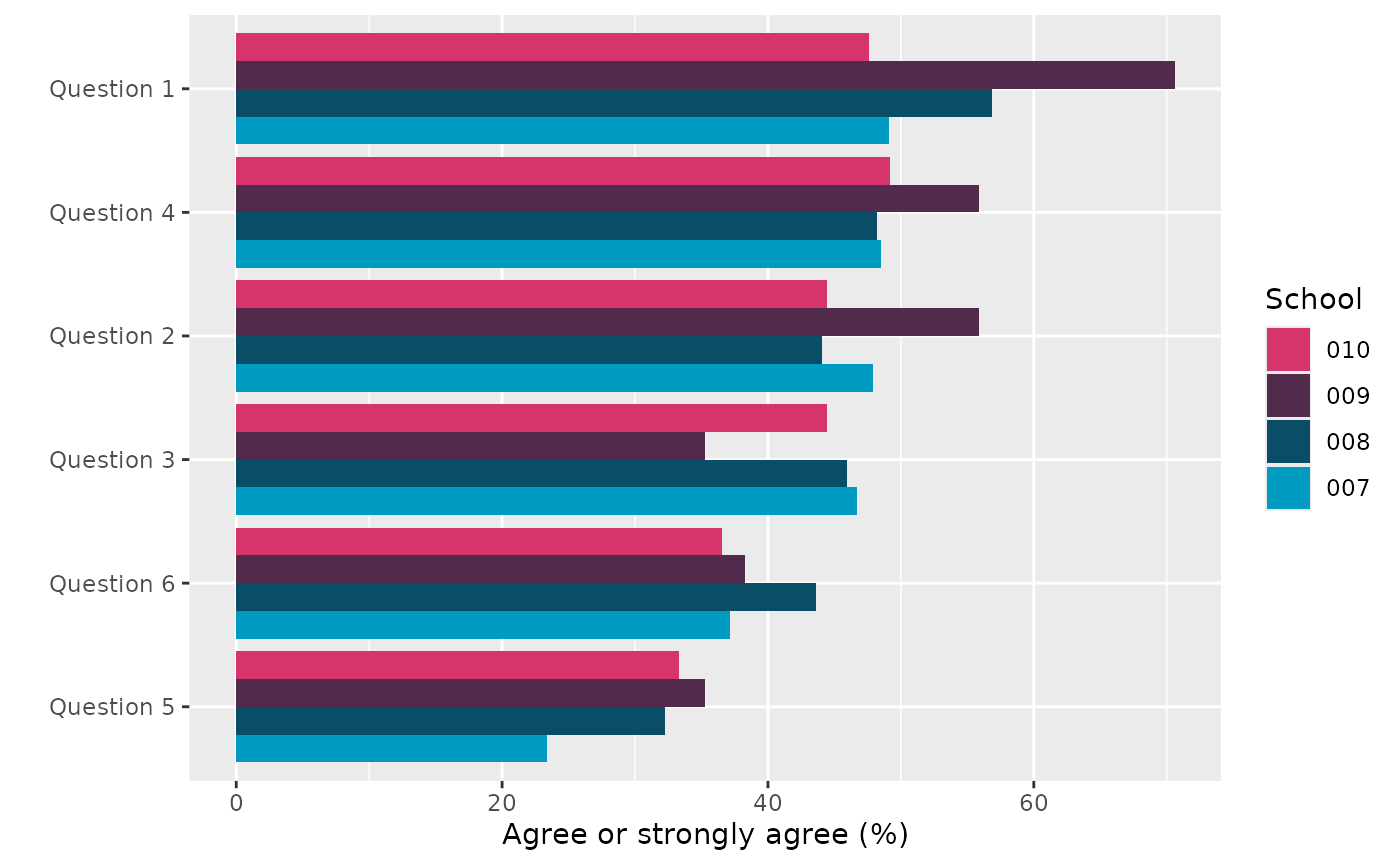
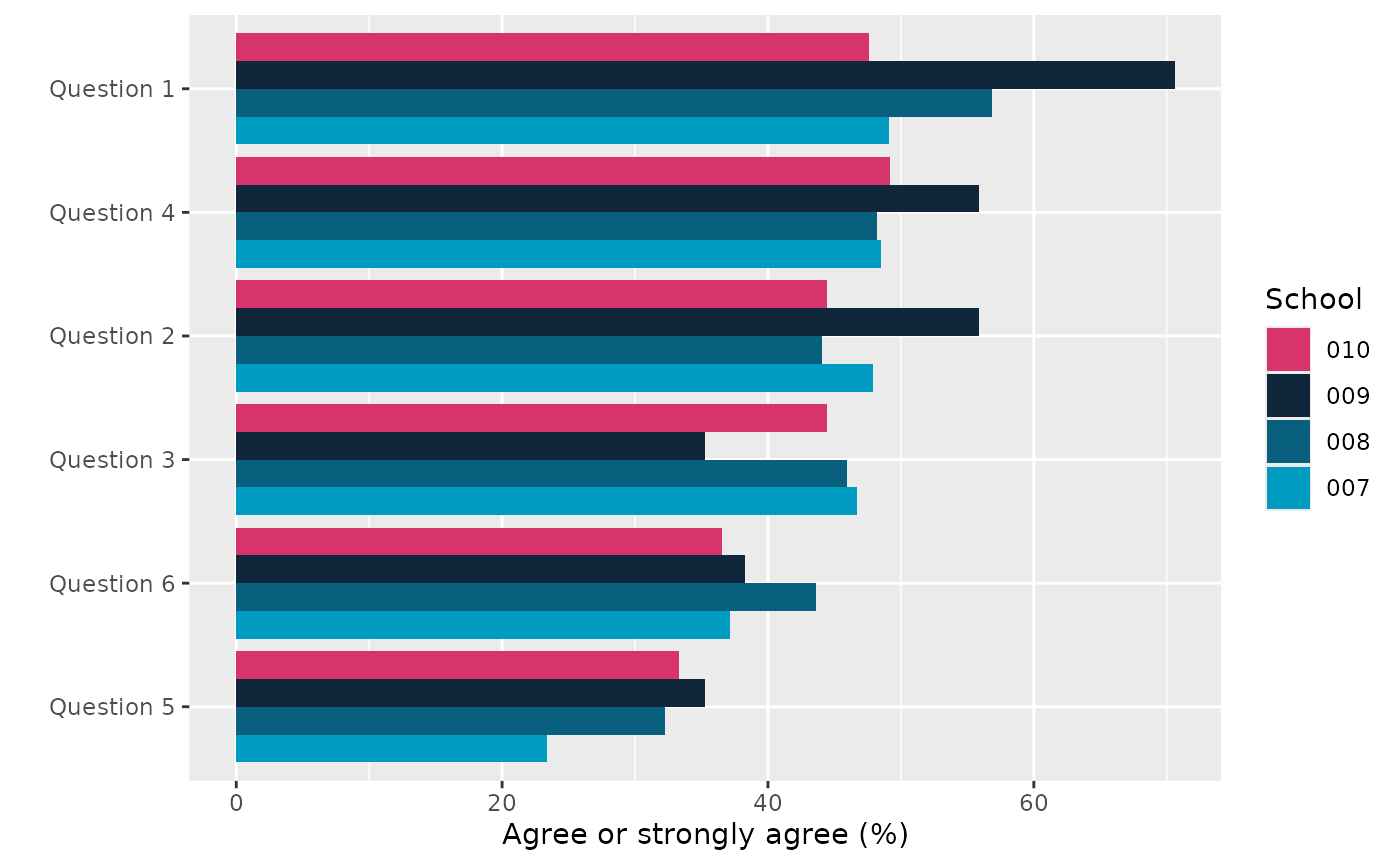
Deploying to gh-pages from @ Jake-Powell/OMESurvey@57211232e80354e47254bc21770a3bd3f6341dea 🚀

diff --git a/articles/Create-survey-figures.html b/articles/Create-survey-figures.html
@@ -111,7 +111,7 @@ ggplot, a plotly figure or a formatted data frame.</p>
 <div class="sourceCode" id="cb4"><pre class="downlit sourceCode r">
 <code class="sourceCode R"><span><span class="fu">OMESurvey</span><span class="fu">::</span><span class="fu"><a href="../reference/plot_theme.html">plot_theme</a></span><span class="op">(</span><span class="va">data</span>, theme <span class="op">=</span> <span class="st">'Theme_1'</span>, kind <span class="op">=</span> <span class="st">'plotly'</span><span class="op">)</span></span></code></pre></div>
 <div class="plotly html-widget html-fill-item" id="htmlwidget-ac96cb3ee4656e2e9ec3" style="width:700px;height:432.632880098888px;"></div>
-<script type="application/json" data-for="htmlwidget-ac96cb3ee4656e2e9ec3">{"x":{"visdat":{"1d1e4d696225":["function () ","plotlyVisDat"]},"cur_data":"1d1e4d696225","attrs":{"1d1e4d696225":{"y":{},"x":{},"orientation":"h","hovertext":{},"hoverinfo":"text","color":{},"colors":["#009BC1","#08607E","#10263B","#732C53","#D7336C"],"alpha_stroke":1,"sizes":[10,100],"spans":[1,20],"type":"bar"}},"layout":{"margin":{"b":40,"l":60,"t":25,"r":10},"xaxis":{"domain":[0,1],"automargin":true,"title":"Number of responses"},"yaxis":{"domain":[0,1],"automargin":true,"title":"","type":"category","categoryorder":"array","categoryarray":["Question 1","Question 2","Question 3","Question 4","Question 5","Question 6"]},"barmode":"stack","hovermode":"closest","showlegend":true},"source":"A","config":{"modeBarButtonsToAdd":["hoverclosest","hovercompare"],"showSendToCloud":false},"data":[{"y":["Question 1","Question 2","Question 3","Question 4","Question 5","Question 6"],"x":[122,49,84,134,85,90],"orientation":"h","hovertext":["Agree a lot<br>122 Responses<br>34.9%","Agree a lot<br>49 Responses<br>14.4%","Agree a lot<br>84 Responses<br>23.9%","Agree a lot<br>134 Responses<br>38.1%","Agree a lot<br>85 Responses<br>23.5%","Agree a lot<br>90 Responses<br>25.9%"],"hoverinfo":["text","text","text","text","text","text"],"type":"bar","name":"Agree a lot","marker":{"color":"rgba(0,155,193,1)","line":{"color":"rgba(0,155,193,1)"}},"textfont":{"color":"rgba(0,155,193,1)"},"error_y":{"color":"rgba(0,155,193,1)"},"error_x":{"color":"rgba(0,155,193,1)"},"xaxis":"x","yaxis":"y","frame":null},{"y":["Question 1","Question 2","Question 3","Question 4","Question 5","Question 6"],"x":[139,175,135,103,58,104],"orientation":"h","hovertext":["Agree a little<br>139 Responses<br>39.7%","Agree a little<br>175 Responses<br>51.5%","Agree a little<br>135 Responses<br>38.4%","Agree a little<br>103 Responses<br>29.3%","Agree a little<br>58 Responses<br>16.1%","Agree a little<br>104 Responses<br>30%"],"hoverinfo":["text","text","text","text","text","text"],"type":"bar","name":"Agree a little","marker":{"color":"rgba(8,96,126,1)","line":{"color":"rgba(8,96,126,1)"}},"textfont":{"color":"rgba(8,96,126,1)"},"error_y":{"color":"rgba(8,96,126,1)"},"error_x":{"color":"rgba(8,96,126,1)"},"xaxis":"x","yaxis":"y","frame":null},{"y":["Question 1","Question 2","Question 3","Question 4","Question 5","Question 6"],"x":[45,54,65,52,70,76],"orientation":"h","hovertext":["Neither<br>45 Responses<br>12.9%","Neither<br>54 Responses<br>15.9%","Neither<br>65 Responses<br>18.5%","Neither<br>52 Responses<br>14.8%","Neither<br>70 Responses<br>19.4%","Neither<br>76 Responses<br>21.9%"],"hoverinfo":["text","text","text","text","text","text"],"type":"bar","name":"Neither","marker":{"color":"rgba(16,38,59,1)","line":{"color":"rgba(16,38,59,1)"}},"textfont":{"color":"rgba(16,38,59,1)"},"error_y":{"color":"rgba(16,38,59,1)"},"error_x":{"color":"rgba(16,38,59,1)"},"xaxis":"x","yaxis":"y","frame":null},{"y":["Question 1","Question 2","Question 3","Question 4","Question 5","Question 6"],"x":[28,44,47,33,61,32],"orientation":"h","hovertext":["Disagree a little<br>28 Responses<br>8%","Disagree a little<br>44 Responses<br>12.9%","Disagree a little<br>47 Responses<br>13.4%","Disagree a little<br>33 Responses<br>9.4%","Disagree a little<br>61 Responses<br>16.9%","Disagree a little<br>32 Responses<br>9.2%"],"hoverinfo":["text","text","text","text","text","text"],"type":"bar","name":"Disagree a little","marker":{"color":"rgba(115,44,83,1)","line":{"color":"rgba(115,44,83,1)"}},"textfont":{"color":"rgba(115,44,83,1)"},"error_y":{"color":"rgba(115,44,83,1)"},"error_x":{"color":"rgba(115,44,83,1)"},"xaxis":"x","yaxis":"y","frame":null},{"y":["Question 1","Question 2","Question 3","Question 4","Question 5","Question 6"],"x":[16,18,21,30,87,45],"orientation":"h","hovertext":["Disagree a lot<br>16 Responses<br>4.6%","Disagree a lot<br>18 Responses<br>5.3%","Disagree a lot<br>21 Responses<br>6%","Disagree a lot<br>30 Responses<br>8.5%","Disagree a lot<br>87 Responses<br>24.1%","Disagree a lot<br>45 Responses<br>13%"],"hoverinfo":["text","text","text","text","text","text"],"type":"bar","name":"Disagree a lot","marker":{"color":"rgba(215,51,108,1)","line":{"color":"rgba(215,51,108,1)"}},"textfont":{"color":"rgba(215,51,108,1)"},"error_y":{"color":"rgba(215,51,108,1)"},"error_x":{"color":"rgba(215,51,108,1)"},"xaxis":"x","yaxis":"y","frame":null}],"highlight":{"on":"plotly_click","persistent":false,"dynamic":false,"selectize":false,"opacityDim":0.20000000000000001,"selected":{"opacity":1},"debounce":0},"shinyEvents":["plotly_hover","plotly_click","plotly_selected","plotly_relayout","plotly_brushed","plotly_brushing","plotly_clickannotation","plotly_doubleclick","plotly_deselect","plotly_afterplot","plotly_sunburstclick"],"base_url":"https://plot.ly"},"evals":[],"jsHooks":[]}</script>
+<script type="application/json" data-for="htmlwidget-ac96cb3ee4656e2e9ec3">{"x":{"visdat":{"1e3f2b8c265e":["function () ","plotlyVisDat"]},"cur_data":"1e3f2b8c265e","attrs":{"1e3f2b8c265e":{"y":{},"x":{},"orientation":"h","hovertext":{},"hoverinfo":"text","color":{},"colors":["#009BC1","#08607E","#10263B","#732C53","#D7336C"],"alpha_stroke":1,"sizes":[10,100],"spans":[1,20],"type":"bar"}},"layout":{"margin":{"b":40,"l":60,"t":25,"r":10},"xaxis":{"domain":[0,1],"automargin":true,"title":"Number of responses"},"yaxis":{"domain":[0,1],"automargin":true,"title":"","type":"category","categoryorder":"array","categoryarray":["Question 1","Question 2","Question 3","Question 4","Question 5","Question 6"]},"barmode":"stack","hovermode":"closest","showlegend":true},"source":"A","config":{"modeBarButtonsToAdd":["hoverclosest","hovercompare"],"showSendToCloud":false},"data":[{"y":["Question 1","Question 2","Question 3","Question 4","Question 5","Question 6"],"x":[122,49,84,134,85,90],"orientation":"h","hovertext":["Agree a lot<br>122 Responses<br>34.9%","Agree a lot<br>49 Responses<br>14.4%","Agree a lot<br>84 Responses<br>23.9%","Agree a lot<br>134 Responses<br>38.1%","Agree a lot<br>85 Responses<br>23.5%","Agree a lot<br>90 Responses<br>25.9%"],"hoverinfo":["text","text","text","text","text","text"],"type":"bar","name":"Agree a lot","marker":{"color":"rgba(0,155,193,1)","line":{"color":"rgba(0,155,193,1)"}},"textfont":{"color":"rgba(0,155,193,1)"},"error_y":{"color":"rgba(0,155,193,1)"},"error_x":{"color":"rgba(0,155,193,1)"},"xaxis":"x","yaxis":"y","frame":null},{"y":["Question 1","Question 2","Question 3","Question 4","Question 5","Question 6"],"x":[139,175,135,103,58,104],"orientation":"h","hovertext":["Agree a little<br>139 Responses<br>39.7%","Agree a little<br>175 Responses<br>51.5%","Agree a little<br>135 Responses<br>38.4%","Agree a little<br>103 Responses<br>29.3%","Agree a little<br>58 Responses<br>16.1%","Agree a little<br>104 Responses<br>30%"],"hoverinfo":["text","text","text","text","text","text"],"type":"bar","name":"Agree a little","marker":{"color":"rgba(8,96,126,1)","line":{"color":"rgba(8,96,126,1)"}},"textfont":{"color":"rgba(8,96,126,1)"},"error_y":{"color":"rgba(8,96,126,1)"},"error_x":{"color":"rgba(8,96,126,1)"},"xaxis":"x","yaxis":"y","frame":null},{"y":["Question 1","Question 2","Question 3","Question 4","Question 5","Question 6"],"x":[45,54,65,52,70,76],"orientation":"h","hovertext":["Neither<br>45 Responses<br>12.9%","Neither<br>54 Responses<br>15.9%","Neither<br>65 Responses<br>18.5%","Neither<br>52 Responses<br>14.8%","Neither<br>70 Responses<br>19.4%","Neither<br>76 Responses<br>21.9%"],"hoverinfo":["text","text","text","text","text","text"],"type":"bar","name":"Neither","marker":{"color":"rgba(16,38,59,1)","line":{"color":"rgba(16,38,59,1)"}},"textfont":{"color":"rgba(16,38,59,1)"},"error_y":{"color":"rgba(16,38,59,1)"},"error_x":{"color":"rgba(16,38,59,1)"},"xaxis":"x","yaxis":"y","frame":null},{"y":["Question 1","Question 2","Question 3","Question 4","Question 5","Question 6"],"x":[28,44,47,33,61,32],"orientation":"h","hovertext":["Disagree a little<br>28 Responses<br>8%","Disagree a little<br>44 Responses<br>12.9%","Disagree a little<br>47 Responses<br>13.4%","Disagree a little<br>33 Responses<br>9.4%","Disagree a little<br>61 Responses<br>16.9%","Disagree a little<br>32 Responses<br>9.2%"],"hoverinfo":["text","text","text","text","text","text"],"type":"bar","name":"Disagree a little","marker":{"color":"rgba(115,44,83,1)","line":{"color":"rgba(115,44,83,1)"}},"textfont":{"color":"rgba(115,44,83,1)"},"error_y":{"color":"rgba(115,44,83,1)"},"error_x":{"color":"rgba(115,44,83,1)"},"xaxis":"x","yaxis":"y","frame":null},{"y":["Question 1","Question 2","Question 3","Question 4","Question 5","Question 6"],"x":[16,18,21,30,87,45],"orientation":"h","hovertext":["Disagree a lot<br>16 Responses<br>4.6%","Disagree a lot<br>18 Responses<br>5.3%","Disagree a lot<br>21 Responses<br>6%","Disagree a lot<br>30 Responses<br>8.5%","Disagree a lot<br>87 Responses<br>24.1%","Disagree a lot<br>45 Responses<br>13%"],"hoverinfo":["text","text","text","text","text","text"],"type":"bar","name":"Disagree a lot","marker":{"color":"rgba(215,51,108,1)","line":{"color":"rgba(215,51,108,1)"}},"textfont":{"color":"rgba(215,51,108,1)"},"error_y":{"color":"rgba(215,51,108,1)"},"error_x":{"color":"rgba(215,51,108,1)"},"xaxis":"x","yaxis":"y","frame":null}],"highlight":{"on":"plotly_click","persistent":false,"dynamic":false,"selectize":false,"opacityDim":0.20000000000000001,"selected":{"opacity":1},"debounce":0},"shinyEvents":["plotly_hover","plotly_click","plotly_selected","plotly_relayout","plotly_brushed","plotly_brushing","plotly_clickannotation","plotly_doubleclick","plotly_deselect","plotly_afterplot","plotly_sunburstclick"],"base_url":"https://plot.ly"},"evals":[],"jsHooks":[]}</script>
 </div>
 <div class="tab-pane" id="data-frame" role="tabpanel" aria-labelledby="data-frame-tab">
 
@@ -203,7 +203,7 @@ code.</p>
 <div class="sourceCode" id="cb10"><pre class="downlit sourceCode r">
 <code class="sourceCode R"><span><span class="fu">OMESurvey</span><span class="fu">::</span><span class="fu"><a href="../reference/plot_theme_by_demographic.html">plot_theme_by_demographic</a></span><span class="op">(</span><span class="va">data</span>, theme <span class="op">=</span> <span class="st">'Theme_1'</span>, demographic_column <span class="op">=</span> <span class="va">school_column</span>,  kind <span class="op">=</span> <span class="st">'plotly'</span><span class="op">)</span></span></code></pre></div>
 <div class="plotly html-widget html-fill-item" id="htmlwidget-36aa3d2a04d42bbc2145" style="width:700px;height:432.632880098888px;"></div>
-<script type="application/json" data-for="htmlwidget-36aa3d2a04d42bbc2145">{"x":{"visdat":{"1d1e689d242c":["function () ","plotlyVisDat"]},"cur_data":"1d1e689d242c","attrs":{"1d1e689d242c":{"y":{},"x":{},"orientation":"h","hovertext":{},"hoverinfo":"text","color":{},"colors":["#009BC1","#0A4D67","#522A4B","#D7336C"],"alpha_stroke":1,"sizes":[10,100],"spans":[1,20],"type":"bar"}},"layout":{"margin":{"b":40,"l":60,"t":25,"r":10},"xaxis":{"domain":[0,1],"automargin":true,"title":"Agree or strongly agree (%)"},"yaxis":{"domain":[0,1],"automargin":true,"title":"","type":"category","categoryorder":"array","categoryarray":["Question 1","Question 2","Question 3","Question 4","Question 5","Question 6"]},"hovermode":"closest","showlegend":true},"source":"A","config":{"modeBarButtonsToAdd":["hoverclosest","hovercompare"],"showSendToCloud":false},"data":[{"y":["Question 1","Question 2","Question 3","Question 4","Question 5","Question 6"],"x":[49.101796407185603,47.904191616766497,46.706586826347298,48.502994011976,23.353293413173699,37.125748502994],"orientation":"h","hovertext":["Question 1<br>School: 007<br>49.1% of responses","Question 2<br>School: 007<br>47.9% of responses","Question 3<br>School: 007<br>46.7% of responses","Question 4<br>School: 007<br>48.5% of responses","Question 5<br>School: 007<br>23.4% of responses","Question 6<br>School: 007<br>37.1% of responses"],"hoverinfo":["text","text","text","text","text","text"],"type":"bar","name":"007","marker":{"color":"rgba(0,155,193,1)","line":{"color":"rgba(0,155,193,1)"}},"textfont":{"color":"rgba(0,155,193,1)"},"error_y":{"color":"rgba(0,155,193,1)"},"error_x":{"color":"rgba(0,155,193,1)"},"xaxis":"x","yaxis":"y","frame":null},{"y":["Question 1","Question 2","Question 3","Question 4","Question 5","Question 6"],"x":[56.818181818181799,44.090909090909101,45.909090909090899,48.181818181818201,32.272727272727302,43.636363636363598],"orientation":"h","hovertext":["Question 1<br>School: 008<br>56.8% of responses","Question 2<br>School: 008<br>44.1% of responses","Question 3<br>School: 008<br>45.9% of responses","Question 4<br>School: 008<br>48.2% of responses","Question 5<br>School: 008<br>32.3% of responses","Question 6<br>School: 008<br>43.6% of responses"],"hoverinfo":["text","text","text","text","text","text"],"type":"bar","name":"008","marker":{"color":"rgba(10,77,103,1)","line":{"color":"rgba(10,77,103,1)"}},"textfont":{"color":"rgba(10,77,103,1)"},"error_y":{"color":"rgba(10,77,103,1)"},"error_x":{"color":"rgba(10,77,103,1)"},"xaxis":"x","yaxis":"y","frame":null},{"y":["Question 1","Question 2","Question 3","Question 4","Question 5","Question 6"],"x":[70.588235294117695,55.882352941176499,35.294117647058798,55.882352941176499,35.294117647058798,38.235294117647101],"orientation":"h","hovertext":["Question 1<br>School: 009<br>70.6% of responses","Question 2<br>School: 009<br>55.9% of responses","Question 3<br>School: 009<br>35.3% of responses","Question 4<br>School: 009<br>55.9% of responses","Question 5<br>School: 009<br>35.3% of responses","Question 6<br>School: 009<br>38.2% of responses"],"hoverinfo":["text","text","text","text","text","text"],"type":"bar","name":"009","marker":{"color":"rgba(82,42,75,1)","line":{"color":"rgba(82,42,75,1)"}},"textfont":{"color":"rgba(82,42,75,1)"},"error_y":{"color":"rgba(82,42,75,1)"},"error_x":{"color":"rgba(82,42,75,1)"},"xaxis":"x","yaxis":"y","frame":null},{"y":["Question 1","Question 2","Question 3","Question 4","Question 5","Question 6"],"x":[47.619047619047599,44.4444444444444,44.4444444444444,49.206349206349202,33.3333333333333,36.507936507936499],"orientation":"h","hovertext":["Question 1<br>School: 010<br>47.6% of responses","Question 2<br>School: 010<br>44.4% of responses","Question 3<br>School: 010<br>44.4% of responses","Question 4<br>School: 010<br>49.2% of responses","Question 5<br>School: 010<br>33.3% of responses","Question 6<br>School: 010<br>36.5% of responses"],"hoverinfo":["text","text","text","text","text","text"],"type":"bar","name":"010","marker":{"color":"rgba(215,51,108,1)","line":{"color":"rgba(215,51,108,1)"}},"textfont":{"color":"rgba(215,51,108,1)"},"error_y":{"color":"rgba(215,51,108,1)"},"error_x":{"color":"rgba(215,51,108,1)"},"xaxis":"x","yaxis":"y","frame":null}],"highlight":{"on":"plotly_click","persistent":false,"dynamic":false,"selectize":false,"opacityDim":0.20000000000000001,"selected":{"opacity":1},"debounce":0},"shinyEvents":["plotly_hover","plotly_click","plotly_selected","plotly_relayout","plotly_brushed","plotly_brushing","plotly_clickannotation","plotly_doubleclick","plotly_deselect","plotly_afterplot","plotly_sunburstclick"],"base_url":"https://plot.ly"},"evals":[],"jsHooks":[]}</script>
+<script type="application/json" data-for="htmlwidget-36aa3d2a04d42bbc2145">{"x":{"visdat":{"1e3f4f6bcccb":["function () ","plotlyVisDat"]},"cur_data":"1e3f4f6bcccb","attrs":{"1e3f4f6bcccb":{"y":{},"x":{},"orientation":"h","hovertext":{},"hoverinfo":"text","color":{},"colors":["#009BC1","#08607E","#10263B","#D7336C"],"alpha_stroke":1,"sizes":[10,100],"spans":[1,20],"type":"bar"}},"layout":{"margin":{"b":40,"l":60,"t":25,"r":10},"xaxis":{"domain":[0,1],"automargin":true,"title":"Agree or strongly agree (%)"},"yaxis":{"domain":[0,1],"automargin":true,"title":"","type":"category","categoryorder":"array","categoryarray":["Question 1","Question 2","Question 3","Question 4","Question 5","Question 6"]},"hovermode":"closest","showlegend":true},"source":"A","config":{"modeBarButtonsToAdd":["hoverclosest","hovercompare"],"showSendToCloud":false},"data":[{"y":["Question 1","Question 2","Question 3","Question 4","Question 5","Question 6"],"x":[49.101796407185603,47.904191616766497,46.706586826347298,48.502994011976,23.353293413173699,37.125748502994],"orientation":"h","hovertext":["Question 1<br>School: 007<br>49.1% of responses","Question 2<br>School: 007<br>47.9% of responses","Question 3<br>School: 007<br>46.7% of responses","Question 4<br>School: 007<br>48.5% of responses","Question 5<br>School: 007<br>23.4% of responses","Question 6<br>School: 007<br>37.1% of responses"],"hoverinfo":["text","text","text","text","text","text"],"type":"bar","name":"007","marker":{"color":"rgba(0,155,193,1)","line":{"color":"rgba(0,155,193,1)"}},"textfont":{"color":"rgba(0,155,193,1)"},"error_y":{"color":"rgba(0,155,193,1)"},"error_x":{"color":"rgba(0,155,193,1)"},"xaxis":"x","yaxis":"y","frame":null},{"y":["Question 1","Question 2","Question 3","Question 4","Question 5","Question 6"],"x":[56.818181818181799,44.090909090909101,45.909090909090899,48.181818181818201,32.272727272727302,43.636363636363598],"orientation":"h","hovertext":["Question 1<br>School: 008<br>56.8% of responses","Question 2<br>School: 008<br>44.1% of responses","Question 3<br>School: 008<br>45.9% of responses","Question 4<br>School: 008<br>48.2% of responses","Question 5<br>School: 008<br>32.3% of responses","Question 6<br>School: 008<br>43.6% of responses"],"hoverinfo":["text","text","text","text","text","text"],"type":"bar","name":"008","marker":{"color":"rgba(8,96,126,1)","line":{"color":"rgba(8,96,126,1)"}},"textfont":{"color":"rgba(8,96,126,1)"},"error_y":{"color":"rgba(8,96,126,1)"},"error_x":{"color":"rgba(8,96,126,1)"},"xaxis":"x","yaxis":"y","frame":null},{"y":["Question 1","Question 2","Question 3","Question 4","Question 5","Question 6"],"x":[70.588235294117695,55.882352941176499,35.294117647058798,55.882352941176499,35.294117647058798,38.235294117647101],"orientation":"h","hovertext":["Question 1<br>School: 009<br>70.6% of responses","Question 2<br>School: 009<br>55.9% of responses","Question 3<br>School: 009<br>35.3% of responses","Question 4<br>School: 009<br>55.9% of responses","Question 5<br>School: 009<br>35.3% of responses","Question 6<br>School: 009<br>38.2% of responses"],"hoverinfo":["text","text","text","text","text","text"],"type":"bar","name":"009","marker":{"color":"rgba(16,38,59,1)","line":{"color":"rgba(16,38,59,1)"}},"textfont":{"color":"rgba(16,38,59,1)"},"error_y":{"color":"rgba(16,38,59,1)"},"error_x":{"color":"rgba(16,38,59,1)"},"xaxis":"x","yaxis":"y","frame":null},{"y":["Question 1","Question 2","Question 3","Question 4","Question 5","Question 6"],"x":[47.619047619047599,44.4444444444444,44.4444444444444,49.206349206349202,33.3333333333333,36.507936507936499],"orientation":"h","hovertext":["Question 1<br>School: 010<br>47.6% of responses","Question 2<br>School: 010<br>44.4% of responses","Question 3<br>School: 010<br>44.4% of responses","Question 4<br>School: 010<br>49.2% of responses","Question 5<br>School: 010<br>33.3% of responses","Question 6<br>School: 010<br>36.5% of responses"],"hoverinfo":["text","text","text","text","text","text"],"type":"bar","name":"010","marker":{"color":"rgba(215,51,108,1)","line":{"color":"rgba(215,51,108,1)"}},"textfont":{"color":"rgba(215,51,108,1)"},"error_y":{"color":"rgba(215,51,108,1)"},"error_x":{"color":"rgba(215,51,108,1)"},"xaxis":"x","yaxis":"y","frame":null}],"highlight":{"on":"plotly_click","persistent":false,"dynamic":false,"selectize":false,"opacityDim":0.20000000000000001,"selected":{"opacity":1},"debounce":0},"shinyEvents":["plotly_hover","plotly_click","plotly_selected","plotly_relayout","plotly_brushed","plotly_brushing","plotly_clickannotation","plotly_doubleclick","plotly_deselect","plotly_afterplot","plotly_sunburstclick"],"base_url":"https://plot.ly"},"evals":[],"jsHooks":[]}</script>
 </div>
 <div class="tab-pane" id="data-frame-1" role="tabpanel" aria-labelledby="data-frame-1-tab">
 
@@ -278,7 +278,7 @@ column within survey data.</p>
 <div class="sourceCode" id="cb16"><pre class="downlit sourceCode r">
 <code class="sourceCode R"><span><span class="fu">OMESurvey</span><span class="fu">::</span><span class="fu"><a href="../reference/plot_bar.html">plot_bar</a></span><span class="op">(</span><span class="va">data</span>, column <span class="op">=</span> <span class="fl">5</span>, kind <span class="op">=</span> <span class="st">'plotly'</span><span class="op">)</span></span></code></pre></div>
 <div class="plotly html-widget html-fill-item" id="htmlwidget-1fb4450895fe099f74a1" style="width:700px;height:432.632880098888px;"></div>
-<script type="application/json" data-for="htmlwidget-1fb4450895fe099f74a1">{"x":{"visdat":{"1d1e5349a016":["function () ","plotlyVisDat"]},"cur_data":"1d1e5349a016","attrs":{"1d1e5349a016":{"y":{},"x":{},"orientation":"h","hovertext":{},"hoverinfo":"text","color":"#009BC1","colors":"#009BC1","alpha_stroke":1,"sizes":[10,100],"spans":[1,20],"type":"bar"}},"layout":{"margin":{"b":40,"l":60,"t":25,"r":10},"xaxis":{"domain":[0,1],"automargin":true,"title":"Number of responses"},"yaxis":{"domain":[0,1],"automargin":true,"title":"","type":"category","categoryorder":"array","categoryarray":["Moved group","Chose not to<br>participate","Absent"]},"hovermode":"closest","showlegend":false},"source":"A","config":{"modeBarButtonsToAdd":["hoverclosest","hovercompare"],"showSendToCloud":false},"data":[{"y":["Moved group","Chose not to<br>participate","Absent"],"x":[1,11,38],"orientation":"h","hovertext":["Moved group: 1<br>2% of responses","Chose not to participate: 11<br>22% of responses","Absent: 38<br>76% of responses"],"hoverinfo":["text","text","text"],"type":"bar","name":"#009BC1","marker":{"color":"rgba(0,155,193,1)","line":{"color":"rgba(0,155,193,1)"}},"textfont":{"color":"rgba(0,155,193,1)"},"error_y":{"color":"rgba(0,155,193,1)"},"error_x":{"color":"rgba(0,155,193,1)"},"xaxis":"x","yaxis":"y","frame":null}],"highlight":{"on":"plotly_click","persistent":false,"dynamic":false,"selectize":false,"opacityDim":0.20000000000000001,"selected":{"opacity":1},"debounce":0},"shinyEvents":["plotly_hover","plotly_click","plotly_selected","plotly_relayout","plotly_brushed","plotly_brushing","plotly_clickannotation","plotly_doubleclick","plotly_deselect","plotly_afterplot","plotly_sunburstclick"],"base_url":"https://plot.ly"},"evals":[],"jsHooks":[]}</script>
+<script type="application/json" data-for="htmlwidget-1fb4450895fe099f74a1">{"x":{"visdat":{"1e3f36d2d3a3":["function () ","plotlyVisDat"]},"cur_data":"1e3f36d2d3a3","attrs":{"1e3f36d2d3a3":{"y":{},"x":{},"orientation":"h","hovertext":{},"hoverinfo":"text","color":"#009BC1","colors":"#009BC1","alpha_stroke":1,"sizes":[10,100],"spans":[1,20],"type":"bar"}},"layout":{"margin":{"b":40,"l":60,"t":25,"r":10},"xaxis":{"domain":[0,1],"automargin":true,"title":"Number of responses"},"yaxis":{"domain":[0,1],"automargin":true,"title":"","type":"category","categoryorder":"array","categoryarray":["Moved group","Chose not to<br>participate","Absent"]},"hovermode":"closest","showlegend":false},"source":"A","config":{"modeBarButtonsToAdd":["hoverclosest","hovercompare"],"showSendToCloud":false},"data":[{"y":["Moved group","Chose not to<br>participate","Absent"],"x":[1,11,38],"orientation":"h","hovertext":["Moved group: 1<br>2% of responses","Chose not to participate: 11<br>22% of responses","Absent: 38<br>76% of responses"],"hoverinfo":["text","text","text"],"type":"bar","name":"#009BC1","marker":{"color":"rgba(0,155,193,1)","line":{"color":"rgba(0,155,193,1)"}},"textfont":{"color":"rgba(0,155,193,1)"},"error_y":{"color":"rgba(0,155,193,1)"},"error_x":{"color":"rgba(0,155,193,1)"},"xaxis":"x","yaxis":"y","frame":null}],"highlight":{"on":"plotly_click","persistent":false,"dynamic":false,"selectize":false,"opacityDim":0.20000000000000001,"selected":{"opacity":1},"debounce":0},"shinyEvents":["plotly_hover","plotly_click","plotly_selected","plotly_relayout","plotly_brushed","plotly_brushing","plotly_clickannotation","plotly_doubleclick","plotly_deselect","plotly_afterplot","plotly_sunburstclick"],"base_url":"https://plot.ly"},"evals":[],"jsHooks":[]}</script>
 </div>
 <div class="tab-pane" id="data-frame-2" role="tabpanel" aria-labelledby="data-frame-2-tab">
 

diff --git a/reference/get_OME_colours.html b/reference/get_OME_colours.html
@@ -43,7 +43,7 @@
 
     <div class="section level2">
     <h2 id="ref-usage">Usage<a class="anchor" aria-label="anchor" href="#ref-usage"></a></h2>
-    <div class="sourceCode"><pre class="sourceCode r"><code><span><span class="fu">get_OME_colours</span><span class="op">(</span><span class="va">n</span>, type <span class="op">=</span> <span class="st">"complementary"</span><span class="op">)</span></span></code></pre></div>
+    <div class="sourceCode"><pre class="sourceCode r"><code><span><span class="fu">get_OME_colours</span><span class="op">(</span><span class="va">n</span>, type <span class="op">=</span> <span class="st">"contrast"</span><span class="op">)</span></span></code></pre></div>
     </div>
 
     <div class="section level2">
@@ -55,7 +55,7 @@
 
 
 <dt id="arg-type">type<a class="anchor" aria-label="anchor" href="#arg-type"></a></dt>
-<dd><p>either "complementary",  "contrast" or "distinct".</p></dd>
+<dd><p>either "complementary",  "contrast" or "distinct" or "distinct".</p></dd>
 
 </dl></div>
     <div class="section level2">
@@ -64,9 +64,11 @@
     </div>
     <div class="section level2">
     <h2 id="details">Details<a class="anchor" aria-label="anchor" href="#details"></a></h2>
-    <p>OME complementary colours = c("#10263A","#009BC2", "#37B4B0").
-OME contrast colours = c("#009BC2", "#10263A", '#d7386b').</p>
-<p>If more than 3 colours are specified we interpolate the colours using <code><a href="https://rdrr.io/r/grDevices/colorRamp.html" class="external-link">grDevices::colorRampPalette()</a></code>.</p>
+    <p>Base colours for palettes:</p><ul><li><p>OME complementary colours = c("#10263A","#009BC2", "#37B4B0").</p></li>
+<li><p>OME contrast colours = c("#009BC2", "#10263A", '#d7386b').</p></li>
+<li><p>OME distinct colours = c("#009BC1",'#DEB406', '#D7336C', '#10263B')</p></li>
+</ul><p>If more than the designated colours are specified we interpolate the colours using <code><a href="https://rdrr.io/r/grDevices/colorRamp.html" class="external-link">grDevices::colorRampPalette()</a></code>.</p>
+<p>For "distinct2", when 4&lt; n &lt;=10 we force the distinct colours to appear in the provided colours. This is done by going to a palette with those colours (n=7 or 10) and working back by removing interpolated colours.</p>
     </div>
 
     <div class="section level2">
